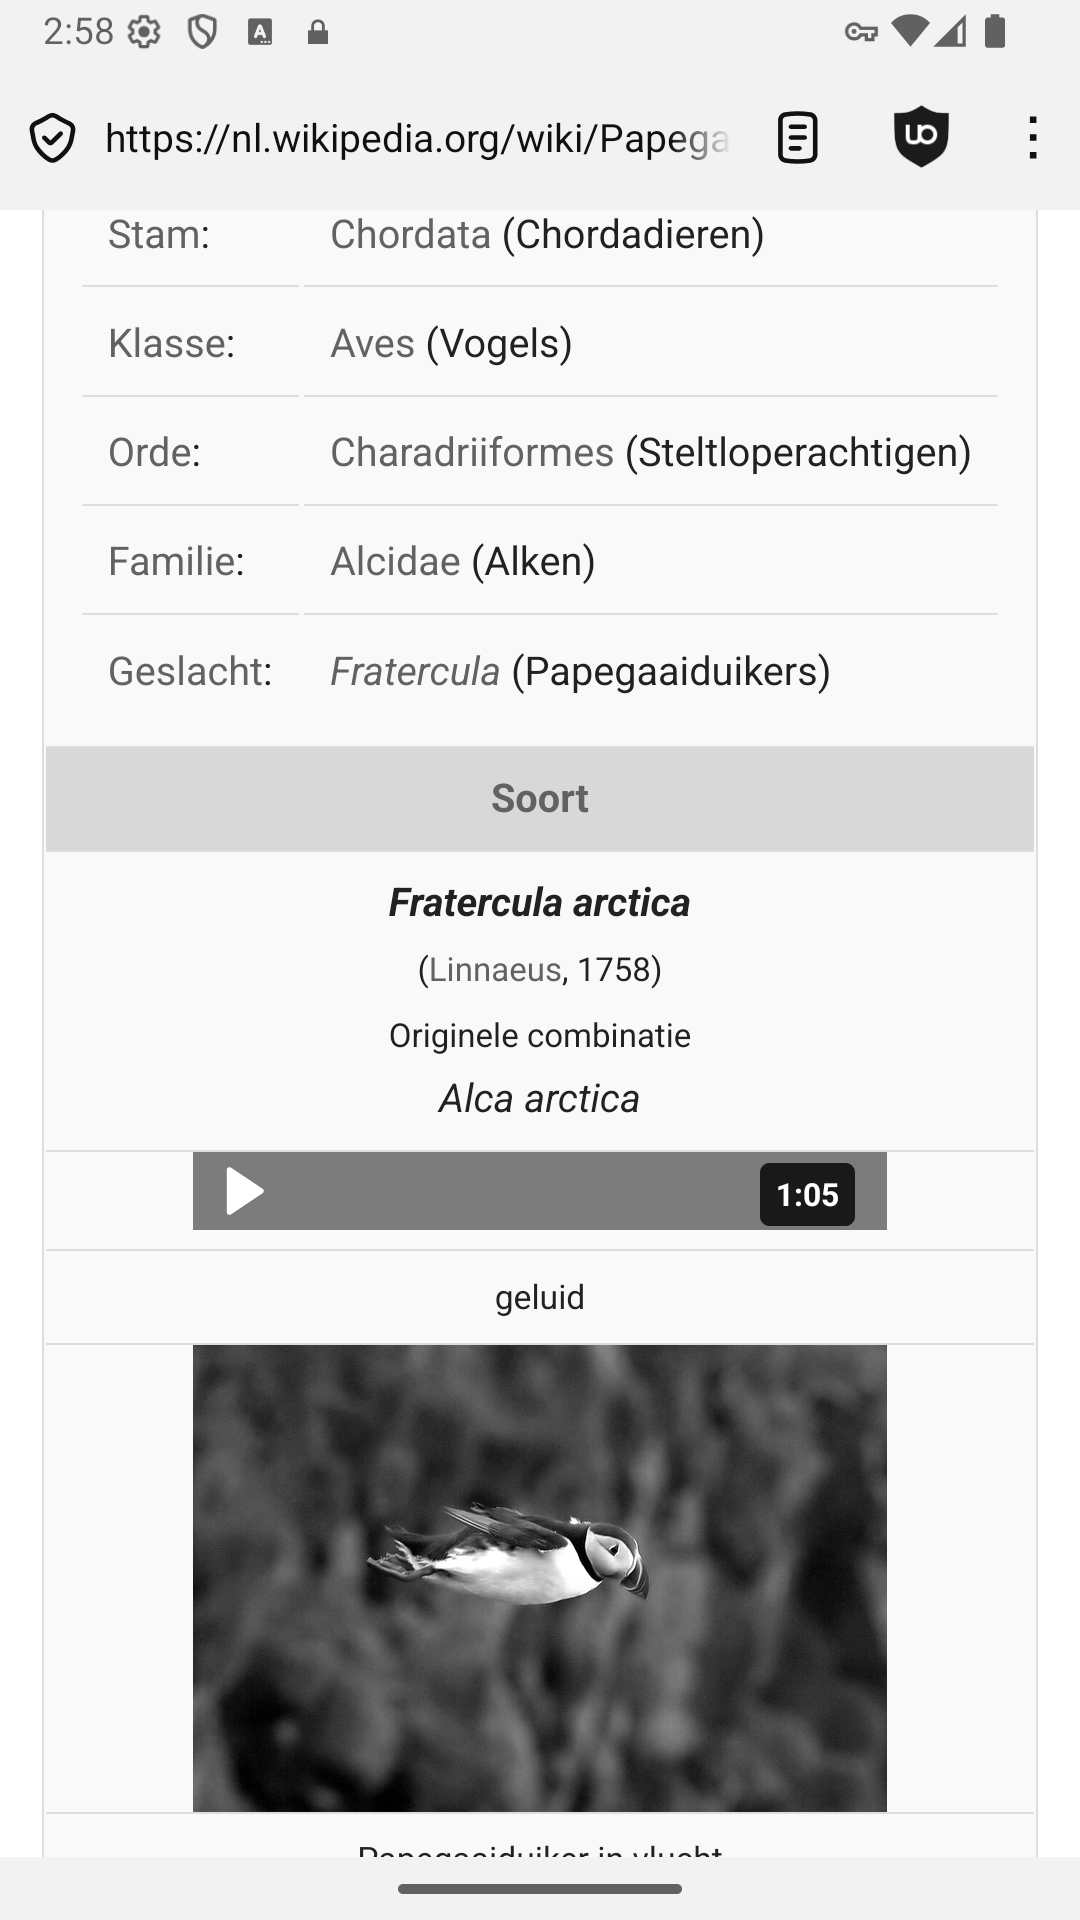
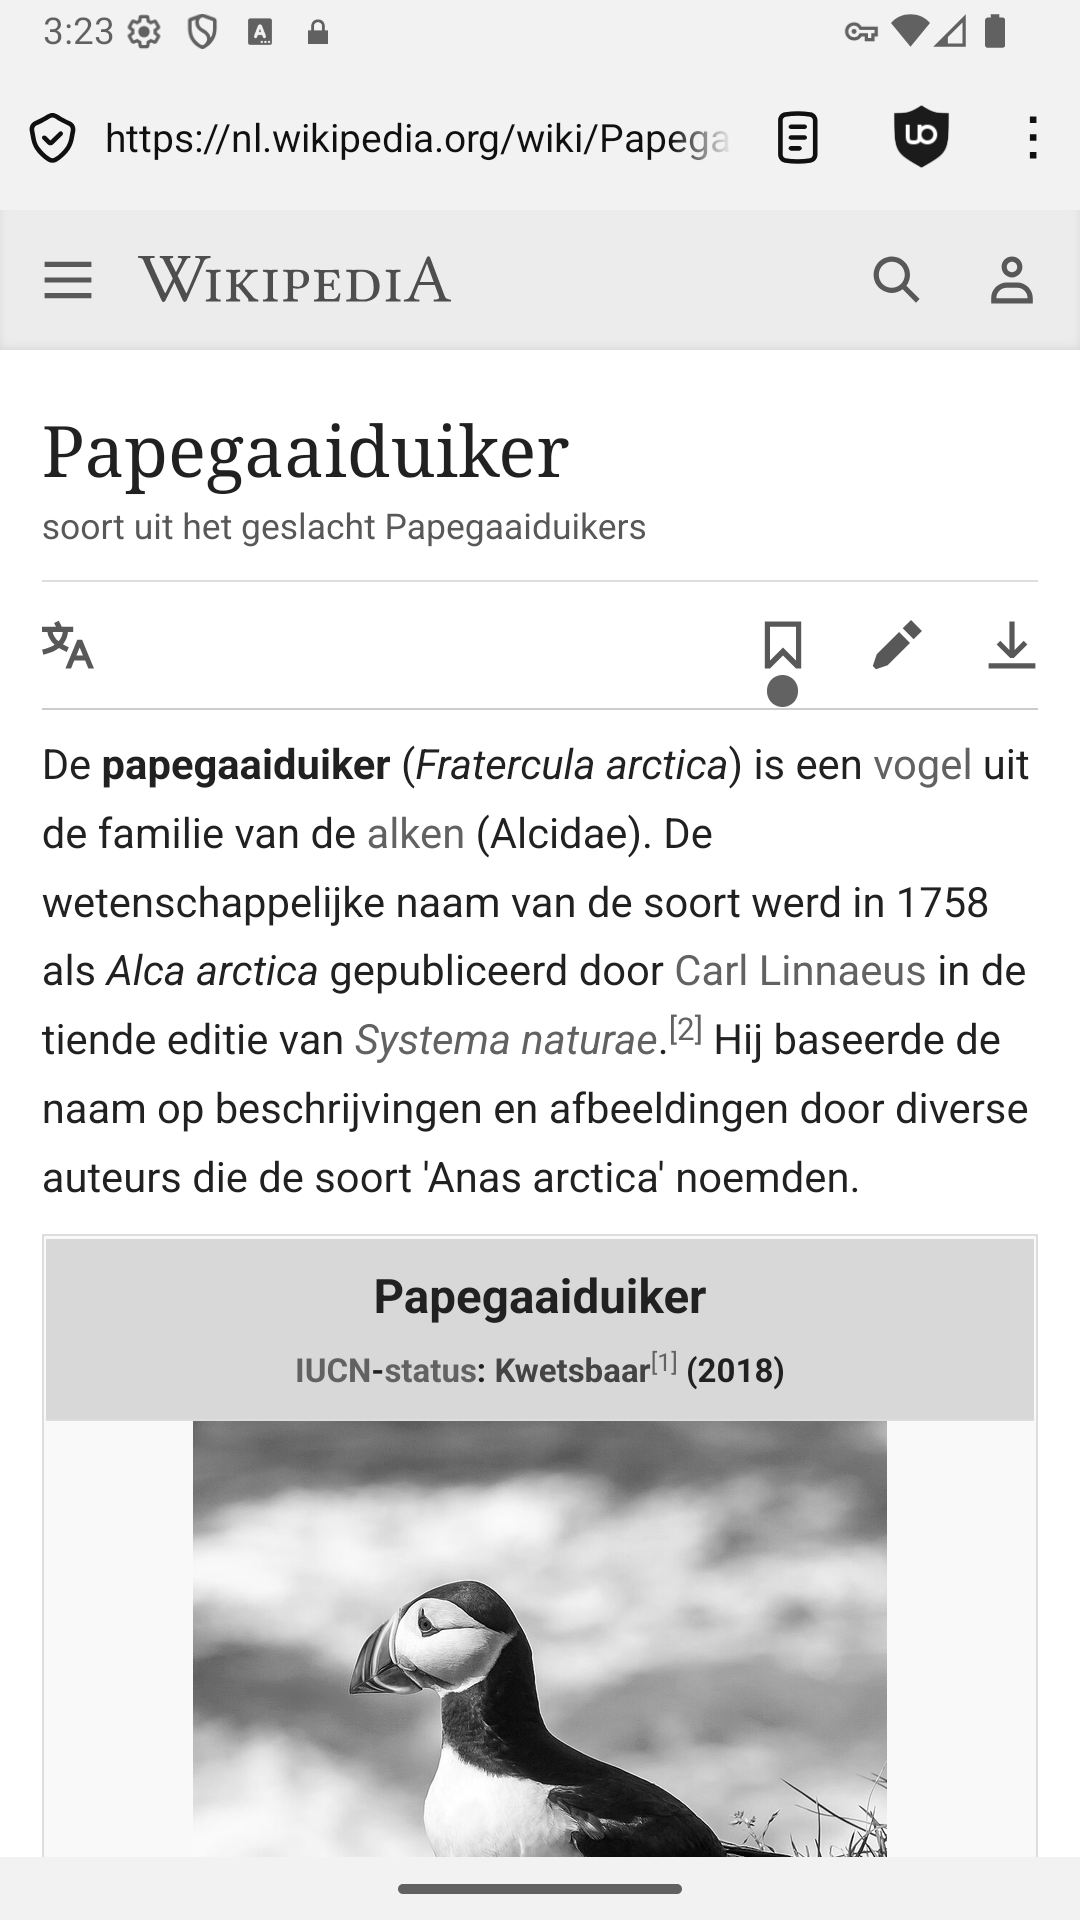
A feature graphic, and the Dutch puffin gets its beak back
The Dutch article shot was taken a flick down the page, where
nl.wikipedia has a distant bird in flight: in black and white, with the
beak a few pixels wide, it showed nothing. Dutch leads with the infobox
portrait like French does, so it takes no flick at all. The beak is the
whole argument of that screenshot -- everyone knows what colour it is.

The feature graphic is greyscale throughout, which is the one design
decision that makes itself.

diff --git a/tools/capture-store-shots.py b/tools/capture-store-shots.py
@@ -79,7 +79,7 @@ SHOTS = ["pause", "article", "refused", "menu", "settings"]
 # part of the shot that proves the point, so each language is scrolled to where
 # its own Wikipedia puts one: the French article leads with the infobox picture,
 # the English and Dutch ones open with a paragraph and need a flick.
-ARTICLE_FLICKS = {"en": 1, "nl": 1, "fr": 0}
+ARTICLE_FLICKS = {"en": 1, "nl": 0, "fr": 0}
 
 
 def adb(*args: str, binary: bool = False):

diff --git a/docs/play-listing.md b/docs/play-listing.md
@@ -69,13 +69,14 @@ Three corrections, each checkable against `dist/policy.json`:
   against policy 139 — youtube.com and netflix.com now reach the block page, and
   wikipedia.org does not. A managed phone is unaffected: drawbridge's answer
   still wins.
-- **"general purpose chatbot" removed, and it is the one claim still not true.**
-  `ai-companions.txt` says in its own header that chatgpt.com, claude.ai and
-  gemini.google.com are *deliberately* not listed, and `blocked_domains` carries
-  none of them either; what the list covers is companion and roleplay chat, plus
-  Grok for shipping a companion mode. dev's policy 138 adds an "Allow AI
-  chatbots" option, and once that reaches main the standalone rule above would
-  switch it off by itself — at which point this line can come back.
+- **"general-purpose chatbots" is true as of policy 140**, and was not before
+  it. `ai-companions.txt` deliberately leaves chatgpt.com, claude.ai and
+  gemini.google.com off — it covers companion and roleplay chat, plus Grok. The
+  chatbots list and its 18+ switch were ported from dev in policy 140, and the
+  standalone rule does the rest: a herald with no drawbridge reads the switch as
+  off, so the chatbots are blocked. On a managed phone they stay allowed until a
+  parent turns the switch off, which is the same document behaving differently
+  in the two places on purpose.
 - **"based on Firefox" → "built on Mozilla's Firefox engine".** herald embeds
   GeckoView, the engine, not the browser. The looser phrasing reads as a
   relationship with Mozilla that does not exist, which is the kind of claim a
@@ -155,6 +156,18 @@ to agree with that page.
     Code source : https://github.com/Nilss3/drawbridge
 
 ---
+
+## The feature graphic
+
+`images/store/mono-feature-graphic-1024x500.png`. Play asks for one per listing
+and shows it above the screenshots.
+
+Greyscale throughout, which is the one design decision that makes itself: an app
+whose premise is that there is no colour cannot advertise itself in colour.
+
+**Play crops this image on some surfaces**, so nothing load-bearing sits near an
+edge. If a crop ever eats the text, the fix is a centred variant rather than
+smaller type.
 
 ## The app icon
 
